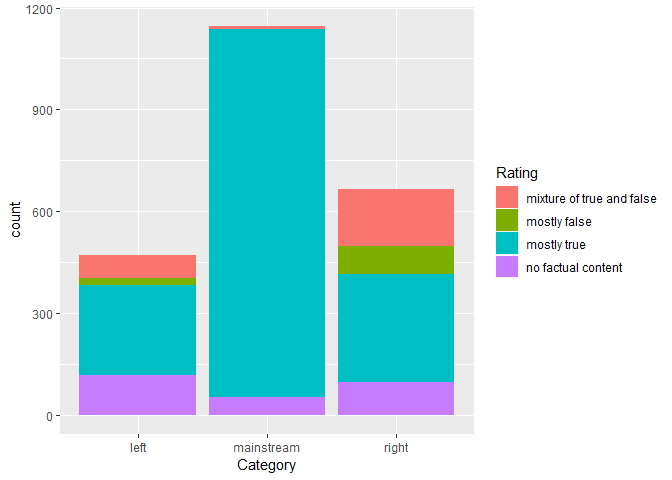
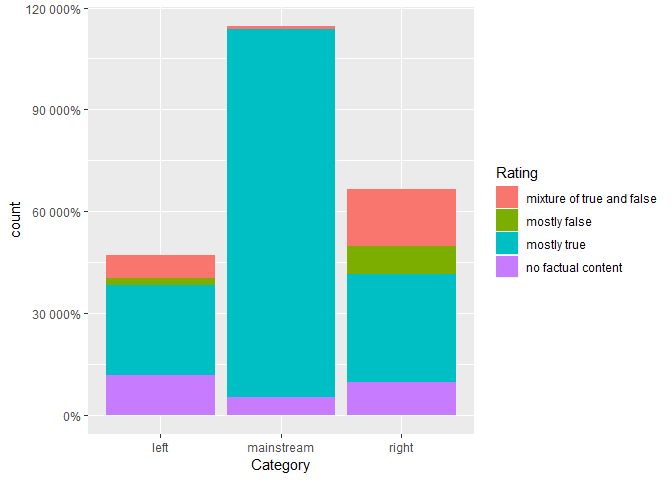
ratios added

diff --git a/facebook_factcheck.md b/facebook_factcheck.md
@@ -1,27 +1,15 @@
-facebook\_factcheck
+False and Misleading Information on Hyperpartisan Facebook Pages
 ================
 
-need to write a proposal covering these questions: What is the problem you want to solve? The social media world is becoming more and more polarized. One of the early glimpses of this was the 2016 elections. There is a strong element of disinformation throughout social media. This project is based on research done by Buzzzfeed on Facebook leading up to the 2016 presidential elections .That data was acquired over seven week days (September 19 through 23rd and September 26th and 27th, 2016.) The research included
+The social media world is becoming more and more polarized. One of the early glimpses of this was the 2016 elections. There is a strong element of disinformation throughout social media. This project is based on research done by Buzzzfeed on Facebook leading up to the 2016 presidential elections. The data was acquired over seven week days (September 19 through 23rd and September 26th and 27th, 2016.) The research included 1145 posts from mainstream political pages (Politico, CNN, ABC), 666 from right-wing political pages (Freedom Daily, Eagle Rising, Right Wing News), 471 from left-wing pages (The Other 98%, Addicting Info, Occupy Democrats ). The pages were ranked based on: • “Mostly True: The post and any related link or image are based on factual information and portray it accurately. This lets them interpret the event/info in their own way, so long as they do not misrepresent events, numbers, quotes, reactions, etc., or make information up. This rating does not allow for unsupported speculation or claims.
 
-Who is your client and why do they care about this problem? In other words, what will your client DO or \`DECIDE based on your analysis that they wouldn’t have otherwise?
+• “Mixture of True and False: Some elements of the information are factually accurate, but some elements or claims are not. This rating should be used when speculation or unfounded claims are mixed with real events, numbers, quotes, etc., or when the headline of the link being shared makes a false claim but the text of the story is largely accurate. It should also only be used when the unsupported or false information is roughly equal to the accurate information in the post or link. Finally, use this rating for news articles that are based on unconfirmed information.
 
-What data are you going to use for this? How will you acquire this data?
+• “Mostly False: Most or all of the information in the post or in the link being shared is inaccurate. This should also be used when the central claim being made is false.
 
-In brief, outline your approach to solving this problem (knowing that this might change later).
+• “No Factual Content: This rating is used for posts that are pure opinion, comics, satire, or any other posts that do not make a factual claim. This is also the category to use for posts that are of the “Like this if you think...” variety.
 
-What are your deliverables? Typically, this would include code, along with a paper and/or a slide deck.
-
-DATA WRANGLING:
-
-The data comes from Kaggle. It was submitted by a journalist from the news site Buzzfeed. The data was not very messy. I did have to rename some features. Account id, post id, and the post url were integers that were changed to character strings. Date Published was a factor that was changed to a date. There were a few NAs that had to be changed in the columns share count, reaction count, and the comment count. We changed the NAs to the median instead of the mean, because the outliers of all these columns caused each of them to be heavily skewed to the right.
-
-Possible questions:
-
-How do left, mainstream, and right categories of Facebook pages differ in the stories they share?
-
-Which types of stories receive the most engagement from their Facebook followers? Are videos or links more effective for engagement?
-
-Can you replicate BuzzFeed’s findings that “the least accurate pages generated some of the highest numbers of shares, reactions, and comments on Facebook”?
+All nine pages have earned the verified blue checkmark from Facebook. The additional data gathered was Facebook engagement numbers (shares, comments, and reactions). Each posts was noted whether it was a link, photo, video, or text. There were NAs within the Facebook engagement numbers that I replaced with the median of each category. The engagement numbers had some extreme outliers, so the use of the mean did not seem to be the proper method for replacing the NAs.
 
 ``` r
 library(dplyr)
@@ -57,6 +45,19 @@ library(ggplot2)
 ```
 
     ## Warning: package 'ggplot2' was built under R version 3.4.4
+
+``` r
+library(scales)
+```
+
+    ## Warning: package 'scales' was built under R version 3.4.4
+
+    ## 
+    ## Attaching package: 'scales'
+
+    ## The following object is masked from 'package:readr':
+    ## 
+    ##     col_factor
 
 ``` r
 fb<-read.csv("file:///C:/Users/John/Documents/R/fact-checking-facebook-politics-pages/facebook-fact-check.csv")
@@ -138,7 +139,8 @@ fb[which(is.na(fb$comment_count)),"comment_count"]<- 131
 
 
 ggplot(fb,aes(x=Category, fill= Rating))+
-  geom_bar()
+  geom_bar()+
+  scale_y_continuous(labels = scales::percent)
 ```
 
 ![](facebook_factcheck_files/figure-markdown_github/unnamed-chunk-2-1.png)
@@ -230,18 +232,15 @@ ggplot(fb, aes(x=Page,fill= Rating))+
 ![](facebook_factcheck_files/figure-markdown_github/unnamed-chunk-3-1.png)
 
 ``` r
-ggplot(fb,aes(Total_count,y= Page,group= reaction_count))+
-  stat_boxplot()
-```
+#ggplot(fb,aes(Total_count,group= reaction))+
+  #stat_boxplot()
 
-![](facebook_factcheck_files/figure-markdown_github/unnamed-chunk-3-2.png)
 
-``` r
 ggplot(fb,aes(x=Post.Type,y= reaction_count, col=Rating))+
   geom_point(position = "jitter")
 ```
 
-![](facebook_factcheck_files/figure-markdown_github/unnamed-chunk-3-3.png)
+![](facebook_factcheck_files/figure-markdown_github/unnamed-chunk-3-2.png)
 
 ``` r
 ggplot(data=fb)+
@@ -251,6 +250,36 @@ ggplot(data=fb)+
 
     ## Warning: Ignoring unknown aesthetics: position
 
-![](facebook_factcheck_files/figure-markdown_github/unnamed-chunk-3-4.png)
+![](facebook_factcheck_files/figure-markdown_github/unnamed-chunk-3-3.png)
+
+``` r
+ggplot(fb,aes(x=Rating, group=Category))+
+  geom_bar(aes(y = ..prop.., fill = factor(..x..)), stat="count") +
+    geom_text(aes( label = scales::percent(..prop..),
+                   y= ..prop.. ), stat= "count", vjust = -.5) +
+    labs(y = "Percent", fill="Rating") +
+    facet_grid(~Category) +
+    scale_y_continuous(labels = scales::percent)+
+  coord_flip()
+```
+
+![](facebook_factcheck_files/figure-markdown_github/unnamed-chunk-4-1.png)
+
+``` r
+ggplot(fb, aes(Date.Published, group = Category)) + 
+          geom_bar(aes(y = ..prop.., fill = factor(..x..)), stat="count") + 
+          scale_y_continuous(labels=scales::percent) +
+          ylab("relative frequencies") +
+          facet_grid(Category~.)
+```
+
+![](facebook_factcheck_files/figure-markdown_github/unnamed-chunk-4-2.png)
+
+``` r
+ggplot(fb)+
+  geom_point(mapping = aes(x= reaction_count,y= Total_count,color= Rating))
+```
+
+![](facebook_factcheck_files/figure-markdown_github/unnamed-chunk-4-3.png)
 
 Note that the `echo = FALSE` parameter was added to the code chunk to prevent printing of the R code that generated the plot.
